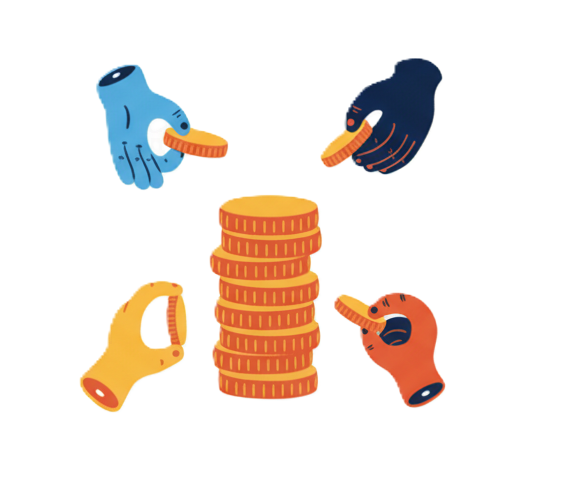
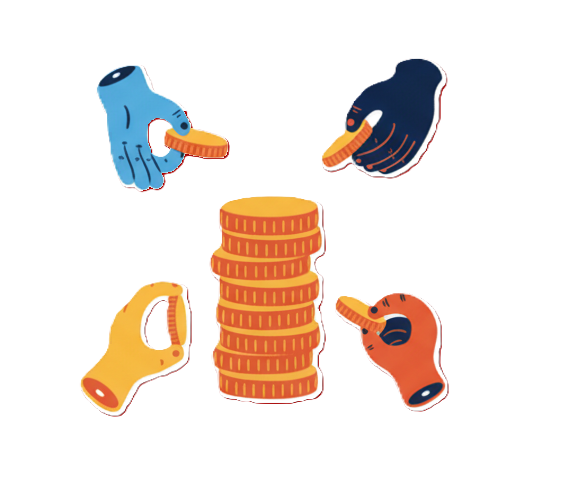
build navigation bar

diff --git a/lib/Home/home.dart b/lib/Home/home.dart
@@ -1,20 +1,132 @@
+import 'package:e_wallet/Auth/Signup/signupPage.dart';
+import 'package:e_wallet/Auth/forgetPassword/forget_password.dart';
+import 'package:e_wallet/Auth/login/loginPage.dart';
 import 'package:e_wallet/Starting_page/startPage.dart';
+import 'package:e_wallet/theme/app_pallet.dart';
+import 'package:flutter/cupertino.dart';
 import 'package:flutter/material.dart';
-import 'dart:ui';
 
 class Home extends StatefulWidget {
-
   const Home({super.key});
 
   @override
   State<Home> createState() => _HomeState();
-
 }
 
 class _HomeState extends State<Home> {
 
+  bool isActive = false;
+  int _counter = 0;
+
+  final List<Widget> page = [
+    LoginPage(),
+    SignupPage(),
+    ForgetPassword(),
+    Startpage(),
+  ];
+
   @override
   Widget build(BuildContext context) {
-    return Scaffold();
+    return Scaffold(
+      backgroundColor: Colors.transparent,
+
+      body: page[_counter],
+
+      floatingActionButtonLocation: FloatingActionButtonLocation.centerDocked,
+
+      floatingActionButton: Container(
+        height: 70,
+        width: 70,
+        child: FloatingActionButton(
+          shape: CircleBorder(),
+          autofocus: true,
+          backgroundColor: Colors.black,
+          foregroundColor: Colors.white,
+          onPressed: () {
+            setState(() {
+              isActive =! isActive;
+            });
+          },
+          child: const Icon(Icons.add, color: Colors.white, size: 35),
+        ),
+      ),
+
+      bottomNavigationBar: SafeArea(
+        child: Padding(
+          padding: const EdgeInsets.all(14.0),
+          child: Container(
+            height: 80,
+            width: double.infinity,
+            decoration: BoxDecoration(
+              borderRadius: BorderRadius.all(Radius.circular(20)),
+              color: Colors.transparent,
+              border: Border.all(
+                // color: Color(0x12ffffff),
+                color: Color(0xff473819),
+              ),
+            ),
+            child: Row(
+              mainAxisAlignment: MainAxisAlignment.spaceEvenly,
+              children: [
+                NavItem(
+                  icon: Icons.home_filled,
+                  label: 'Home',
+                  index: 0,
+                  selectedIndex: _counter,
+                ),
+                NavItem(
+                  icon: Icons.assessment_outlined,
+                  label: 'Analitic',
+                  index: 1,
+                  selectedIndex: _counter,
+                ),
+                const SizedBox(width: 60),
+                NavItem(
+                  icon: Icons.wallet,
+                  label: 'wallet',
+                  index: 2,
+                  selectedIndex: _counter
+                ),
+                NavItem(
+                  icon: Icons.settings_rounded,
+                  label: 'setting',
+                  index: 3,
+                  selectedIndex: _counter,
+                ),
+              ],
+            ),
+          ),
+        ),
+      ),
+    );
+  }
+
+  Widget NavItem({
+    required IconData icon,
+    required String label,
+    required int index,
+    required int selectedIndex,
+  }) {
+    bool isSelected = index == _counter;
+
+    return GestureDetector(
+      onTap: () {
+        setState(() => _counter = index);
+      },
+      child: Tooltip(
+        margin: EdgeInsets.all(20),
+        preferBelow: false,
+        message: label,
+        child: Container(
+          width: 80,
+          height: double.infinity,
+          decoration: BoxDecoration(
+            borderRadius: BorderRadius.all(Radius.circular(20)),
+            color: isSelected ?  Pallet.yellow : Colors.transparent,
+          ),
+          child: Icon(icon, size: 32),
+        ),
+      ),
+    );
   }
 }

diff --git a/lib/main.dart b/lib/main.dart
@@ -1,5 +1,5 @@
 import 'package:e_wallet/Auth/Signup/signupPage.dart';
-import 'package:e_wallet/Auth/forgetPassord/forget_password.dart';
+import 'package:e_wallet/Auth/forgetPassword/forget_password.dart';
 import 'package:e_wallet/Auth/login/loginPage.dart';
 import 'package:e_wallet/Home/home.dart';
 import 'package:e_wallet/Starting_page/startPage.dart';
@@ -21,24 +21,23 @@ class MyApp extends StatelessWidget {
       debugShowCheckedModeBanner: false,
       theme: ThemeData(
         colorScheme: .fromSeed(seedColor: Colors.deepPurple),
-        textTheme: Theme.of(context).textTheme.apply(
-          bodyColor: Pallet.text,
-          displayColor: Pallet.text,
-        ),
-        textSelectionTheme : TextSelectionThemeData(
-            selectionColor: Pallet.background,
-            selectionHandleColor: Colors.white
+        textTheme: Theme.of(
+          context,
+        ).textTheme.apply(bodyColor: Pallet.text, displayColor: Pallet.text),
+        textSelectionTheme: TextSelectionThemeData(
+          selectionColor: Pallet.background,
+          selectionHandleColor: Colors.white,
         ),
         scaffoldBackgroundColor: Colors.transparent,
-        appBarTheme: AppBarTheme(
-            iconTheme: IconThemeData(color: Colors.white)
-        ),
+        appBarTheme: AppBarTheme(iconTheme: IconThemeData(color: Colors.white)),
+        bottomNavigationBarTheme: BottomNavigationBarThemeData(
+          selectedItemColor: Colors.black,
+          unselectedItemColor: Colors.white,
+        )
       ),
-      home:Container(
-        decoration: BoxDecoration(
-          gradient: Pallet.back,
-        ),
-        child: const ForgetPassword(),
+      home: Container(
+        decoration: BoxDecoration(gradient: Pallet.back),
+        child: const Home(),
       ),
     );
   }

diff --git a/lib/Auth/forgetPassword/forget_password.dart b/lib/Auth/forgetPassword/forget_password.dart
@@ -1,0 +1,51 @@
+import 'package:e_wallet/Component/button.dart';
+import 'package:e_wallet/Component/headingText.dart';
+import 'package:e_wallet/Component/input.dart';
+import 'package:e_wallet/theme/app_pallet.dart';
+import 'package:flutter/material.dart';
+
+class ForgetPassword extends StatefulWidget {
+  const ForgetPassword({super.key});
+
+  @override
+  State<ForgetPassword> createState() => _ForgetPasswordState();
+}
+
+class _ForgetPasswordState extends State<ForgetPassword> {
+  final TextEditingController email = TextEditingController();
+
+  @override
+  Widget build(BuildContext context) {
+    return GestureDetector(
+      onTap: () {
+        FocusScope.of(context).unfocus();
+      },
+      child: Scaffold(
+        appBar: AppBar(backgroundColor: Colors.transparent, toolbarHeight: 40),
+        backgroundColor: Colors.transparent,
+        body: ListView(
+          padding: EdgeInsets.only(right: 20, left: 20),
+          children: [
+            H1(text: 'Forgot Password'),
+            Gap(gap: 10),
+            Padding(
+              padding: const EdgeInsets.only(right: 20),
+              child: Text(
+                'Enter your email account to reset your password',
+                style: TextStyle(fontSize: 16),
+              ),
+            ),
+            Gap(gap: 40),
+            Input(label: 'Email', controller: email),
+          ],
+        ),
+        bottomNavigationBar: SafeArea(
+          child: Padding(
+            padding: const EdgeInsets.all(20),
+            child: SizedBox(height: 80, child: Button(text: 'text')),
+          ),
+        ),
+      ),
+    );
+  }
+}

diff --git a/lib/Auth/Signup/signupPage.dart b/lib/Auth/Signup/signupPage.dart
@@ -27,7 +27,7 @@ class _SignupPageState extends State<SignupPage> {
       },
       child: Scaffold(
         appBar: AppBar(backgroundColor: Colors.transparent,toolbarHeight:40),
-        backgroundColor: Colors.transparent,
+        // backgroundColor: Colors.transparent,
         body:ListView(
           padding: const EdgeInsets.only(left: 20,right: 20),
             children: [
@@ -50,7 +50,7 @@ class _SignupPageState extends State<SignupPage> {
                 children: [
                   Text("Don't have an account?"),
                   AuthText(text: "Login" , onTap: (){
-                  },)
+                  },),
                 ],
               )
             ],

diff --git a/lib/Component/showSheet.dart b/lib/Component/showSheet.dart
@@ -4,7 +4,7 @@ void showSheet(BuildContext context){
   showModalBottomSheet(
       context: context,
       builder: (context){
-        return Container(
+        return SizedBox(
           width: double.infinity,
           child: Column(
             children: [
